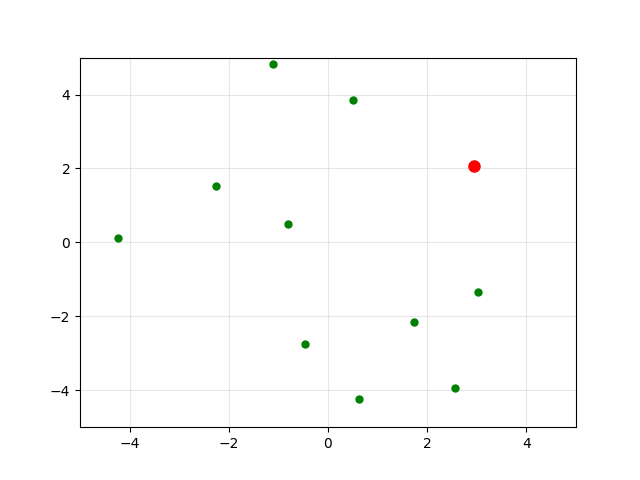
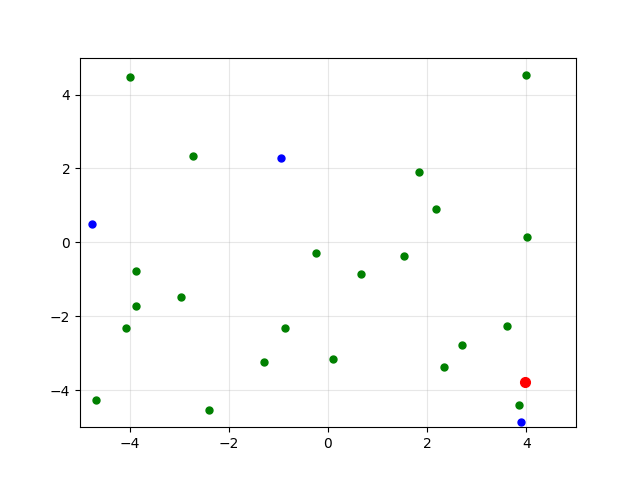
новый код

diff --git a/pr.py b/pr.py
@@ -8,7 +8,8 @@ ax.set_xlim(-5, 5)
 ax.set_ylim(-5, 5) 
 ax.grid(True, alpha=0.3)
 
-k = random.randint(10, 25)
+k_1 = random.randint(10, 25)
+k_2 = random.randint(2,5)
 frames = 200
 
 # Зеленые точки
@@ -16,7 +17,7 @@ points_g = []
 points_data_g = [] 
 speeds_g = []
 
-for i in range(k):
+for i in range(k_1):
     x_g = random.uniform(-5, 5)
     y_g = random.uniform(-5, 5)
     speed = random.uniform(0.5, 1.5)
@@ -30,6 +31,24 @@ for i in range(k):
     point, = ax.plot([x_g], [y_g], 'o', color='green', markersize=5)
     points_g.append(point)
 
+# Синие точки
+points_b = [] 
+points_data_b = [] 
+speeds_b = []
+
+for i in range(k_2):
+    x_b = random.uniform(-5, 5)
+    y_b = random.uniform(-5, 5)
+    speed = random.uniform(0.5, 1.5)
+    points_data_b.append([x_b, y_b])
+    
+    angle_b = random.uniform(0, 2*np.pi)
+    vx_b = speed * np.cos(angle_b)
+    vy_b = speed * np.sin(angle_b)
+    speeds_b.append([vx_b, vy_b])
+    
+    point, = ax.plot([x_b], [y_b], 'o', color='blue', markersize=5)
+    points_b.append(point)
 
 # Красная точка (вирус)
 points_r = [] 
@@ -50,55 +69,77 @@ for i in range(1):
     point, = ax.plot([x_r], [y_r], 'o', color='red', markersize=7)
     points_r.append(point)
 
-# Единая функция обновления
-def update(frame):
-    # Обновление зеленых точек
-    for i, point in enumerate(points_g):
-        x_g, y_g = points_data_g[i]
-        vx_g, vy_g = speeds_g[i]
+# # Единая функция обновления
+# def update(frame):
+#     # Обновление зеленых точек
+#     for i, point in enumerate(points_g):
+#         x_g, y_g = points_data_g[i]
+#         vx_g, vy_g = speeds_g[i]
         
-        x_new = x_g + vx_g * 0.1  
-        y_new = y_g + vy_g * 0.1
+#         x_new = x_g + vx_g * 0.1  
+#         y_new = y_g + vy_g * 0.1
         
-        if abs(x_new) >= 5:
-            vx_g = -vx_g
-            speeds_g[i][0] = vx_g
-            x_new = x_g + vx_g * 0.1
+#         if abs(x_new) >= 5:
+#             vx_g = -vx_g
+#             speeds_g[i][0] = vx_g
+#             x_new = x_g + vx_g * 0.1
             
-        if abs(y_new) >= 5:
-            vy_g = -vy_g
-            speeds_g[i][1] = vy_g
-            y_new = y_g + vy_g * 0.1
+#         if abs(y_new) >= 5:
+#             vy_g = -vy_g
+#             speeds_g[i][1] = vy_g
+#             y_new = y_g + vy_g * 0.1
         
-        points_data_g[i] = [x_new, y_new]
-        point.set_data([x_new], [y_new])
+#         points_data_g[i] = [x_new, y_new]
+#         point.set_data([x_new], [y_new])
     
-    # Обновление красной точки
-    if points_r: 
-        point = points_r[0]
-        x_r, y_r = points_data_r[0]
-        vx_r, vy_r = speeds_r[0]
+#     # Обновление синих точек
+#     for i, point in enumerate(points_b):
+#         x_b, y_b = points_data_b[i]
+#         vx_b, vy_b = speeds_b[i]
         
-        x_new = x_r + vx_r * 0.1
-        y_new = y_r + vy_r * 0.1
+#         x_new = x_b + vx_b * 0.1
+#         y_new = y_b + vy_b * 0.1
         
-        if abs(x_new) >= 5:
-            vx_r = -vx_r
-            speeds_r[0][0] = vx_r
-            x_new = x_r + vx_r * 0.1
+#         if abs(x_new) >= 5:
+#             vx_b = -vx_b
+#             speeds_b[i][0] = vx_b
+#             x_new = x_b + vx_b * 0.1
             
-        if abs(y_new) >= 5:
-            vy_r = -vy_r
-            speeds_r[0][1] = vy_r
-            y_new = y_r + vy_r * 0.1
+#         if abs(y_new) >= 5:
+#             vy_b = -vy_b
+#             speeds_b[i][1] = vy_b
+#             y_new = y_b + vy_b * 0.1
         
-        points_data_r[0] = [x_new, y_new]
-        point.set_data([x_new], [y_new])
+#         points_data_b[i] = [x_new, y_new]
+#         point.set_data([x_new], [y_new])
     
-    # Возвращаем все обновленные точки
-    return points_g + points_r
+#     # Обновление красной точки
+#     if points_r: 
+#         point = points_r[0]
+#         x_r, y_r = points_data_r[0]
+#         vx_r, vy_r = speeds_r[0]
+        
+#         x_new = x_r + vx_r * 0.1
+#         y_new = y_r + vy_r * 0.1
+        
+#         if abs(x_new) >= 5:
+#             vx_r = -vx_r
+#             speeds_r[0][0] = vx_r
+#             x_new = x_r + vx_r * 0.1
+            
+#         if abs(y_new) >= 5:
+#             vy_r = -vy_r
+#             speeds_r[0][1] = vy_r
+#             y_new = y_r + vy_r * 0.1
+        
+#         points_data_r[0] = [x_new, y_new]
+#         point.set_data([x_new], [y_new])
+    
+#     # Возвращаем все обновленные точки
+#     return points_g + points_b + points_r
 
 # Исправленный вызов FuncAnimation
-anim = FuncAnimation(fig, update, frames=frames, interval=50, blit=True)
-anim.save('pr.gif')
+# anim = FuncAnimation(fig, update, frames=frames, interval=50, blit=True)
+# anim.save('virus_2.gif')
+plt.savefig('pr.png')
 plt.show()

diff --git a/test_2.py b/test_2.py
@@ -1,0 +1,102 @@
+import matplotlib.pyplot as plt
+import numpy as np
+import random
+from matplotlib.animation import FuncAnimation
+
+class Person:
+    def __init__(self, x, y, speed_x, speed_y, chance = False, is_infected = False, period):
+        self.x = x_
+        self.y = y_b
+        self.speed_x = speed_x * np.cos(angel)
+        self.speed_y = speed_y * np.sin(angel)
+        self.chance = chance
+        self.is_defected = is_defected
+        self.period = period
+        
+    def update(self, x, y):
+        self.x = self.x + self.speed_x * 0.1
+        self.y = self.y + self.speed_y * 0.1
+        if abs(self.x) >= 5:
+            self.x = -self.x
+            self.speed_x = -self.speed_x
+            self.x = self.x + self.speed_x * 0.1
+            
+        if abs(self.y) >= 5:
+            self.y = -self.y
+            self.speed_y = -self.speed_y
+            self.y = self.y + self.speed_y * 0.1
+
+    def near_infect(self, persons):
+        for person in persons:
+            if person != self and self.chance != True and person.is_infected and (((person.x - self.x) ** 2 + (person.y - self.y) ** 2) < 0.1):
+                return True
+        return False
+
+    def infect(self):
+        self.is_infected = True
+
+figure, axises = plt.subplots()
+
+persons = []
+k = random.randint(80, 120)
+
+for i in range (k):
+    v = random.random()
+    immun = random.randint(1,15)
+    if v < 0.07:
+        is_infected = True
+    elif v >= 0.07:
+        if immun > 14:
+            chance = True
+
+    persons.append(Person(
+        random.uniform(-5, 5),    # x
+        random.uniform(-5, 5),    # y
+        random.uniform(0.1, 0.2),   #speed_x
+        random.uniform(0.1, 0.2),   #speed_y
+        chance   #chance
+        np.random.random() * 2 * np.pi,   #angel
+        is_infected   #is_infected
+        random.uniform(0.25, 0.5)   #period
+    ))
+
+figure, axises = plt.subplots()
+ 
+animation_red_points, = plt.plot([], [], 'o', color='red')
+animation_green_points, = plt.plot([], [], 'o', color='green')
+animation_blue_points, = plt.plot([], [], 'o', color='blue')
+
+def update(frame):
+    data_red_points_x = []
+    data_red_points_y = []
+    data_green_points_x = []
+    data_green_points_y = []
+    data_blue_points_x = []
+    data_blue_points_y = []
+ 
+    for person in persons:
+        person.update()
+ 
+        if person.near_infect(persons):
+            person.infect()
+ 
+        if person.is_infected:
+            data_red_points_x.append(person.x)
+            data_red_points_y.append(person.y)
+        elif person.chance:
+            data_blue_points_x.append(person.x)
+            data_blue_points_y.append(person.y)
+        else:
+            data_green_points_x.append(person.x)
+            data_green_points_y.append(person.y)
+ 
+    animation_red_points.set_data(data_red_points_x, data_red_points_y)
+    animation_green_points.set_data(data_green_points_x, data_green_points_y)
+    animation_blue_points.set_data(data_blue_points_x, data_blue_points_y)
+ 
+    return animation_red_points, animation_green_points, animation_blue_points
+ 
+animation = FuncAnimation(figure, update, frames=np.arange(100), interval=50)
+ 
+axises.set_xlim(-5, 5)
+axises.set_ylim(-5, 5)

diff --git a/test.py b/test.py
@@ -8,18 +8,20 @@ ax.set_xlim(-5, 5)
 ax.set_ylim(-5, 5) 
 ax.grid(True, alpha=0.3)
 
-k = random.randint(10, 25)
+k_1 = random.randint(10, 25)
+k_2 = random.randint(2, 5)
+k_3 = 1
 frames = 200
 
-# Зеленые точки
+# Зеленые точки (незараженные)
 points_g = [] 
 points_data_g = [] 
 speeds_g = []
 
-for i in range(k):
+for i in range(k_1):
     x_g = random.uniform(-5, 5)
     y_g = random.uniform(-5, 5)
-    speed = random.uniform(0.5, 1.5)
+    speed = random.uniform(0.5, 1)
     points_data_g.append([x_g, y_g])
     
     angle_g = random.uniform(0, 2*np.pi)
@@ -30,15 +32,15 @@ for i in range(k):
     point, = ax.plot([x_g], [y_g], 'o', color='green', markersize=5)
     points_g.append(point)
 
-# Синие точки
+# Синие точки (с иммунитетом)
 points_b = [] 
 points_data_b = [] 
 speeds_b = []
 
-for i in range(k):
+for i in range(k_2):
     x_b = random.uniform(-5, 5)
     y_b = random.uniform(-5, 5)
-    speed = random.uniform(0.5, 1.5)
+    speed = random.uniform(0.5, 1)
     points_data_b.append([x_b, y_b])
     
     angle_b = random.uniform(0, 2*np.pi)
@@ -54,10 +56,10 @@ points_r = []
 points_data_r = [] 
 speeds_r = []
 
-for i in range(1):
+for i in range(k_3):
     x_r = random.uniform(-5, 5)
     y_r = random.uniform(-5, 5)
-    speed = random.uniform(0.5, 1.5)
+    speed = random.uniform(0.5, 1)
     points_data_r.append([x_r, y_r])
     
     angle_r = random.uniform(0, 2*np.pi)
@@ -113,8 +115,7 @@ def update(frame):
         point.set_data([x_new], [y_new])
     
     # Обновление красной точки
-    if points_r: 
-        point = points_r[0]
+    for i, point in enumerate(points_r):
         x_r, y_r = points_data_r[0]
         vx_r, vy_r = speeds_r[0]
         
@@ -133,6 +134,9 @@ def update(frame):
         
         points_data_r[0] = [x_new, y_new]
         point.set_data([x_new], [y_new])
+
+        #заражение точек
+        distance = 0.2
     
     # Возвращаем все обновленные точки
     return points_g + points_b + points_r

diff --git a/README.md b/README.md
@@ -1,2 +1,40 @@
 # Математическое моделирование
 Репозиторий для курса "Математического моделирования" в рамках общего цикла лекций "Моделирование на python"
+
+
+SIR
+Ключевые особенности и применение
+Динамика: Позволяет рассчитать максимальное число зараженных одновременно, время пика и общее воздействие болезни.
+Простота: Подходит для быстрого моделирования гриппа и других инфекций с пожизненным иммунитетом.
+Ограничения: Предполагает однородное смешивание популяции, что не учитывает реальные социальные связи.
+Модификации: Для уточнения используют модели 
+ (с инкубационным периодом), 
+ (потеря иммунитета), 
+ (карантин)
+
+
+ Примерные коэффициенты контагиозности (интенсивности) заболеваний:
+Очень высокие (>90%): Корь, ветряная оспа. Один контакт почти всегда приводит к болезни.
+Высокие (50–90%): Легочная чума (80%), геморрагические лихорадки (70%), дифтерия, некоторые виды гриппа.
+Средние (10–50%): Эпидемический паротит, краснуха, COVID-19, гепатит А (40%).
+Низкие (<10%): ВИЧ-инфекция, некоторые кишечные инфекции (зависит от дозы), менингококковая инфекция.
+
+
+Примерные значения коэффициента 
+ (1/день) для разных заболеваний:
+COVID-19 (в среднем, ранние штаммы): 
+0.1 - 0.2
+ (период болезни 5–10 дней).
+Грипп: 
+0.25 - 0.5
+ (период болезни 2–4 дня).
+Корь: 
+0.07 - 0.1
+ (период болезни 10–14 дней).
+SARS (2003): 
+0.05 - 0.1
+ (длительный период инфекционности). 
+В формуле модели SIR этот параметр определяет, как быстро уменьшается число активных больных, не учитывая смертность.
+
+
+https://pastebin.com/bxeC3A8Z
